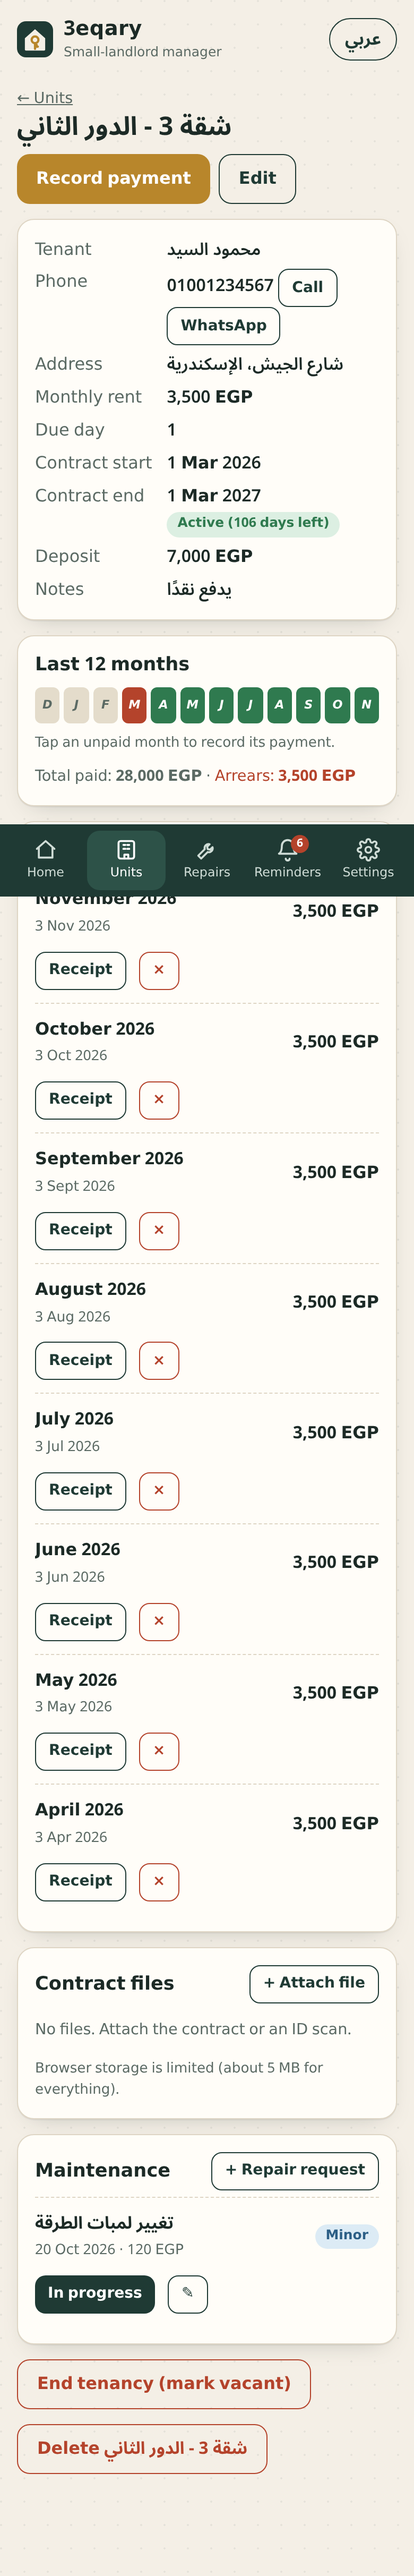
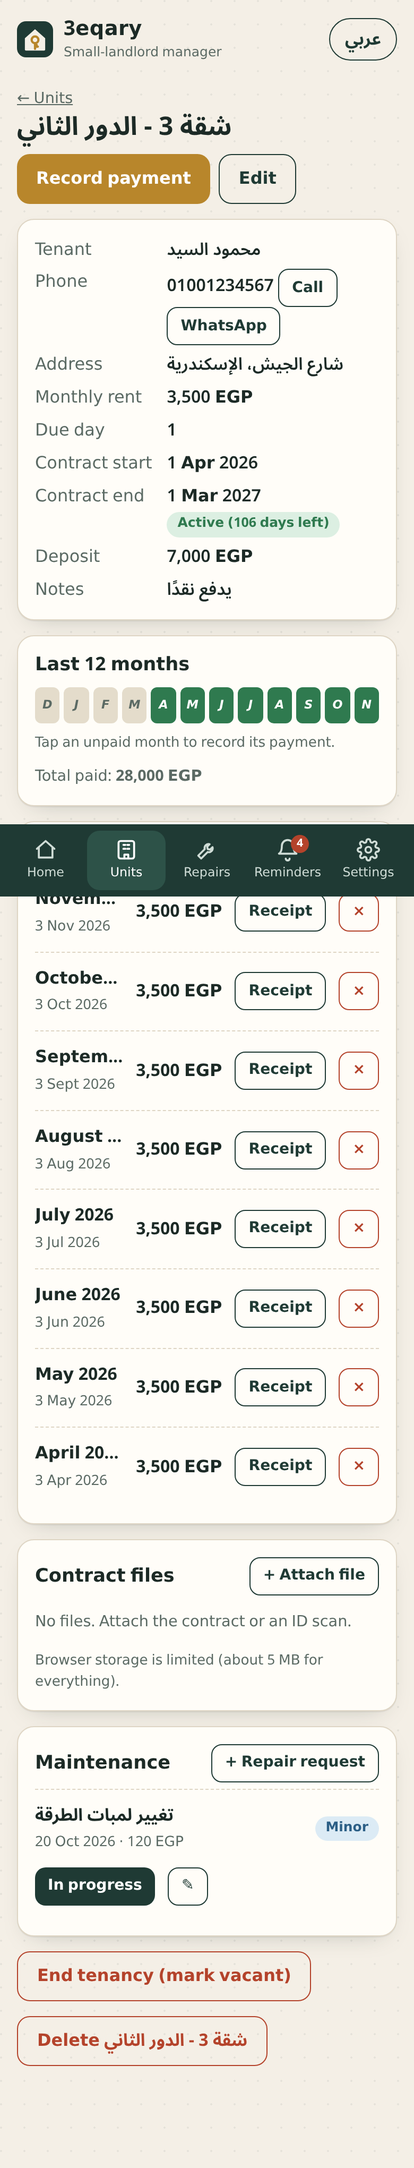
Rounds 4-5: bidi fixes, sample data, a11y, README, license

diff --git a/logic.js b/logic.js
@@ -178,9 +178,9 @@
   function sampleState(today) {
     var cur = monthKey(today), pm = addMonths(cur, -1), d = function (m, day) { return m + '-' + pad(day); };
     var u = [
-      { id: 'u1', name: 'شقة 3 - الدور الثاني', address: 'شارع الجيش، الإسكندرية', tenant: 'محمود السيد', phone: '01001234567', rent: 3500, dueDay: 1, start: d(addMonths(cur, -8), 1), end: d(addMonths(cur, 4), 1), deposit: 7000, notes: 'يدفع نقدًا', files: [] },
+      { id: 'u1', name: 'شقة 3 - الدور الثاني', address: 'شارع الجيش، الإسكندرية', tenant: 'محمود السيد', phone: '01001234567', rent: 3500, dueDay: 1, start: d(addMonths(cur, -7), 1), end: d(addMonths(cur, 4), 1), deposit: 7000, notes: 'يدفع نقدًا', files: [] },
       { id: 'u2', name: 'شقة 5 - الدور الثالث', address: 'شارع الجيش، الإسكندرية', tenant: 'هالة إبراهيم', phone: '01119876543', rent: 4200, dueDay: 5, start: d(addMonths(cur, -3), 5), end: d(addMonths(cur, 1), 20), deposit: 8400, notes: '', files: [] },
-      { id: 'u3', name: 'محل أرضي', address: 'ميدان المنشية', tenant: 'مكتبة النور', phone: '01224445566', rent: 6000, dueDay: 10, start: d(addMonths(cur, -14), 10), end: d(addMonths(cur, 9), 10), deposit: 12000, notes: 'تجديد سنوي', files: [] },
+      { id: 'u3', name: 'محل أرضي', address: 'ميدان المنشية', tenant: 'مكتبة النور', phone: '01224445566', rent: 6000, dueDay: 10, start: d(addMonths(cur, -13), 10), end: d(addMonths(cur, 9), 10), deposit: 12000, notes: 'تجديد سنوي', files: [] },
       { id: 'u4', name: 'استوديو 1', address: 'سموحة', tenant: '', phone: '', rent: 2800, dueDay: 1, start: '', end: '', deposit: 0, notes: 'جاهز للتأجير', files: [] }
     ];
     var pay = [], n = 0;

diff --git a/app.js b/app.js
@@ -76,7 +76,7 @@
   function contractText(c) { return t('ct_' + c.code, { n: num(c.days || 0) }); }
   function remText(r) {
     var u = unitById(r.unitId), un = u ? u.name : '';
-    var v = { u: esc(un), n: num(r.days || 0), a: money(r.amount), t: esc(r.title || '') };
+    var v = { u: '<bdi>' + esc(un) + '</bdi>', n: num(r.days || 0), a: money(r.amount), t: esc(r.title || '') };
     if (r.kind === 'due' && r.days === 0) return t('rm_due0', v);
     var k = { overdue: 'rm_overdue', due: 'rm_due', arrears: 'rm_arrears', expiring: 'rm_expiring', expired: 'rm_expired', 'urgent-ticket': 'rm_urgent' }[r.kind];
     return t(k, v);
@@ -167,7 +167,7 @@
     h += '<div class="card sec"><h2>' + t('payments') + '</h2>';
     if (!pays.length) h += '<p class="muted">' + t('no_payments') + '</p>';
     pays.forEach(function (p) {
-      h += '<div class="row"><div class="grow"><b>' + esc(monthFmt(p.month)) + '</b><small>' + dateFmt(p.date) + (p.note ? ' · ' + esc(p.note) : '') + '</small></div><span class="amt">' + money(p.amount) + '</span>' +
+      h += '<div class="row nowrap"><div class="grow"><b>' + esc(monthFmt(p.month)) + '</b><small>' + dateFmt(p.date) + (p.note ? ' · ' + esc(p.note) : '') + '</small></div><span class="amt">' + money(p.amount) + '</span>' +
         '<button class="btn sm ghost" type="button" data-act="receipt" data-id="' + p.id + '">' + t('receipt') + '</button>' +
         '<button class="btn sm danger" type="button" data-act="delpay" data-id="' + p.id + '" aria-label="' + t('delete') + '">&times;</button></div>';
     });

diff --git a/i18n.js b/i18n.js
@@ -69,7 +69,7 @@ window.I18N = {
     any_unit: 'No unit', unit: 'Unit', pick_unit: 'Pick a unit', need_unit: 'Add a unit first.',
     reminders: 'Reminders', auto_rem: 'Automatic', my_rem: 'My reminders', add_rem: 'New reminder', rem_title: 'Title', rem_date: 'Date', no_rem: 'No personal reminders.',
     export_ics: 'Export to calendar (ICS)', done: 'Done',
-    rm_overdue: '{u}: rent {n} days late, {a} left', rm_due: '{u}: rent due in {n} days ({a})', rm_arrears: '{u}: arrears over {n} months, total {a}',
+    rm_overdue: '{u}: rent {n} days late, {a} left', rm_due: '{u}: rent due in {n} days ({a})', rm_arrears: '{u}: unpaid rent from {n} earlier month(s), total {a}',
     rm_expiring: '{u}: contract ends in {n} days', rm_expired: '{u}: contract ended {n} days ago', rm_urgent: '{u}: urgent repair: {t}',
     rm_due0: '{u}: rent is due today ({a})',
     settings: 'Settings', language: 'Language', currency: 'Currency', data: 'Your data', backup: 'Backup (JSON)', restore: 'Restore backup', csv: 'Export payments (CSV)',

diff --git a/index.html b/index.html
@@ -21,7 +21,7 @@
   <nav class="tabs" id="tabs" aria-label="main"></nav>
   <main id="view" tabindex="-1"></main>
 </div>
-<dialog id="dlg"><form method="dialog" id="dlgForm"><div class="dlg-head"><h2 id="dlgTitle"></h2><button type="button" class="x" id="dlgX" aria-label="close">&times;</button></div><div id="dlgBody"></div></form></dialog>
+<dialog id="dlg" aria-labelledby="dlgTitle"><form method="dialog" id="dlgForm"><div class="dlg-head"><h2 id="dlgTitle"></h2><button type="button" class="x" id="dlgX" aria-label="close">&times;</button></div><div id="dlgBody"></div></form></dialog>
 <div id="toast" role="status" aria-live="polite"></div>
 <div id="print-area"></div>
 <script src="logic.js"></script>

diff --git a/tests/logic.test.js b/tests/logic.test.js
@@ -85,3 +85,8 @@ test('sample data is coherent', () => {
   const sm = L.summary(s, '2026-11', T); assert.ok(sm.expected > 0 && sm.rate <= 100);
 });
 test('num parsing', () => { assert.equal(L.num('12.345'), 12.35); assert.equal(L.num('-5'), 0); assert.equal(L.num('abc'), 0); });
+test('sample data has no phantom arrears before the first month', () => {
+  const s = L.sampleState(T);
+  const a1 = L.arrears(s.units[0], s, T), a3 = L.arrears(s.units[2], s, T);
+  assert.equal(a1.total, 0); assert.equal(a3.months.length, 1); assert.equal(a3.months[0].month, '2026-11');
+});

diff --git a/style.css b/style.css
@@ -151,3 +151,6 @@ label.f input:focus,label.f select:focus,label.f textarea:focus{border-color:var
 .grid>*{min-width:0}
 .row{flex-wrap:wrap}
 .row .grow{flex:1 1 140px}
+.row.nowrap{flex-wrap:nowrap}
+.row.nowrap .grow{flex:1 1 0}
+bdi{unicode-bidi:isolate}

diff --git a/README.md b/README.md
@@ -1,0 +1,61 @@
+<p align="center"><img src="logo.svg" width="96" alt="3eqary logo"></p>
+
+<h1 align="center">3eqary | عقاري</h1>
+
+<p align="center"><b>Rent status, contract files, repairs and reminders for landlords with a few units.</b><br>
+<b>متابعة الإيجارات وملفات العقود والصيانة والتنبيهات لمالك العقار الصغير.</b></p>
+
+<p align="center"><a href="https://yousefkhames.github.io/3eqary/"><b>Live demo &rarr; yousefkhames.github.io/3eqary</b></a></p>
+
+<p align="center"><img src="docs/dashboard-ar.png" width="300" alt="Arabic dashboard"> <img src="docs/units-en.png" width="300" alt="Units list in English"></p>
+
+## The pitch
+
+If you rent out a few flats or shops, your records live in a notebook and a WhatsApp chat. You forget who paid, when a contract ends, and which leak is still unfixed. 3eqary puts that in one screen on your phone. Add a unit, record the tenant and rent, and it tells you who is late, whose contract ends soon, and what needs fixing. No account, no server.
+
+## Features
+
+- **Dashboard**: expected, collected and outstanding rent for any month, occupancy, and a collection bar.
+- **Units as key tags**: tenant, phone, rent, due day, deposit, contract dates, and a 12-month paid/late strip per unit.
+- **Rent tracking**: full and partial payments, per-month status (paid, partial, due soon, overdue), arrears across months. Tap an unpaid month in the strip to record it.
+- **Printable receipts** for every payment, with your name as landlord.
+- **Contract files**: attach a photo or PDF of the contract or ID to each unit; open or delete later.
+- **Maintenance**: repair requests with priority, status (open, in progress, done) and cost; spend total.
+- **Reminders**: automatic ones (rent due, late, arrears, contract ending or ended, urgent repairs) plus your own. Export to your calendar as an `.ics` file with monthly rent-due events.
+- **Search and filters** on units: overdue, contract ending, vacant.
+- **Backup and restore** as JSON, payments export as CSV (opens in Excel with Arabic text).
+- **Arabic and English**, full RTL layout, mobile first, works on desktop too.
+
+## Run it
+
+It is static files. Open `index.html`, or serve the folder:
+
+```
+python3 -m http.server 8099
+```
+
+## Tests
+
+```
+npm test                                 # 14 unit tests for the logic (Node, no dependencies)
+BASE=http://localhost:8099/ node tests/e2e.js   # real Chrome click-through, 31 checks
+```
+
+The click-through needs `playwright-core` (set `PW_PATH` if it is installed elsewhere) and a Chrome binary (`CHROME`, default `/usr/bin/google-chrome`). Add `?today=YYYY-MM-DD` to the URL to pin "today" for repeatable runs.
+
+## Tech
+
+Plain HTML, CSS and JavaScript. No framework, no build step, no network calls, no fonts to download. State is one JSON object in `localStorage`. The business rules live in `logic.js` (pure functions, tested in Node); `app.js` only renders and handles clicks.
+
+## Honest limits
+
+- **Data stays in one browser on one device.** There is no sync, no login and no server. Clearing site data erases it. Use Backup regularly.
+- **GitHub Pages is a demo host.** For real use, host the files yourself.
+- **File attachments are stored inside the browser** and each is limited to 700 KB; the browser allows roughly 5 MB total. Heavy scans will not fit.
+- **No automatic notifications.** Reminders show when you open the app; the calendar export is the way to get alerts on your phone.
+- Rent logic is monthly with one due day per unit. No late fees, no rent increases, no multi-tenant splits.
+- Not accounting or legal software. Receipts are convenience records, not official invoices.
+
+## License
+
+MIT. See [LICENSE](LICENSE).
